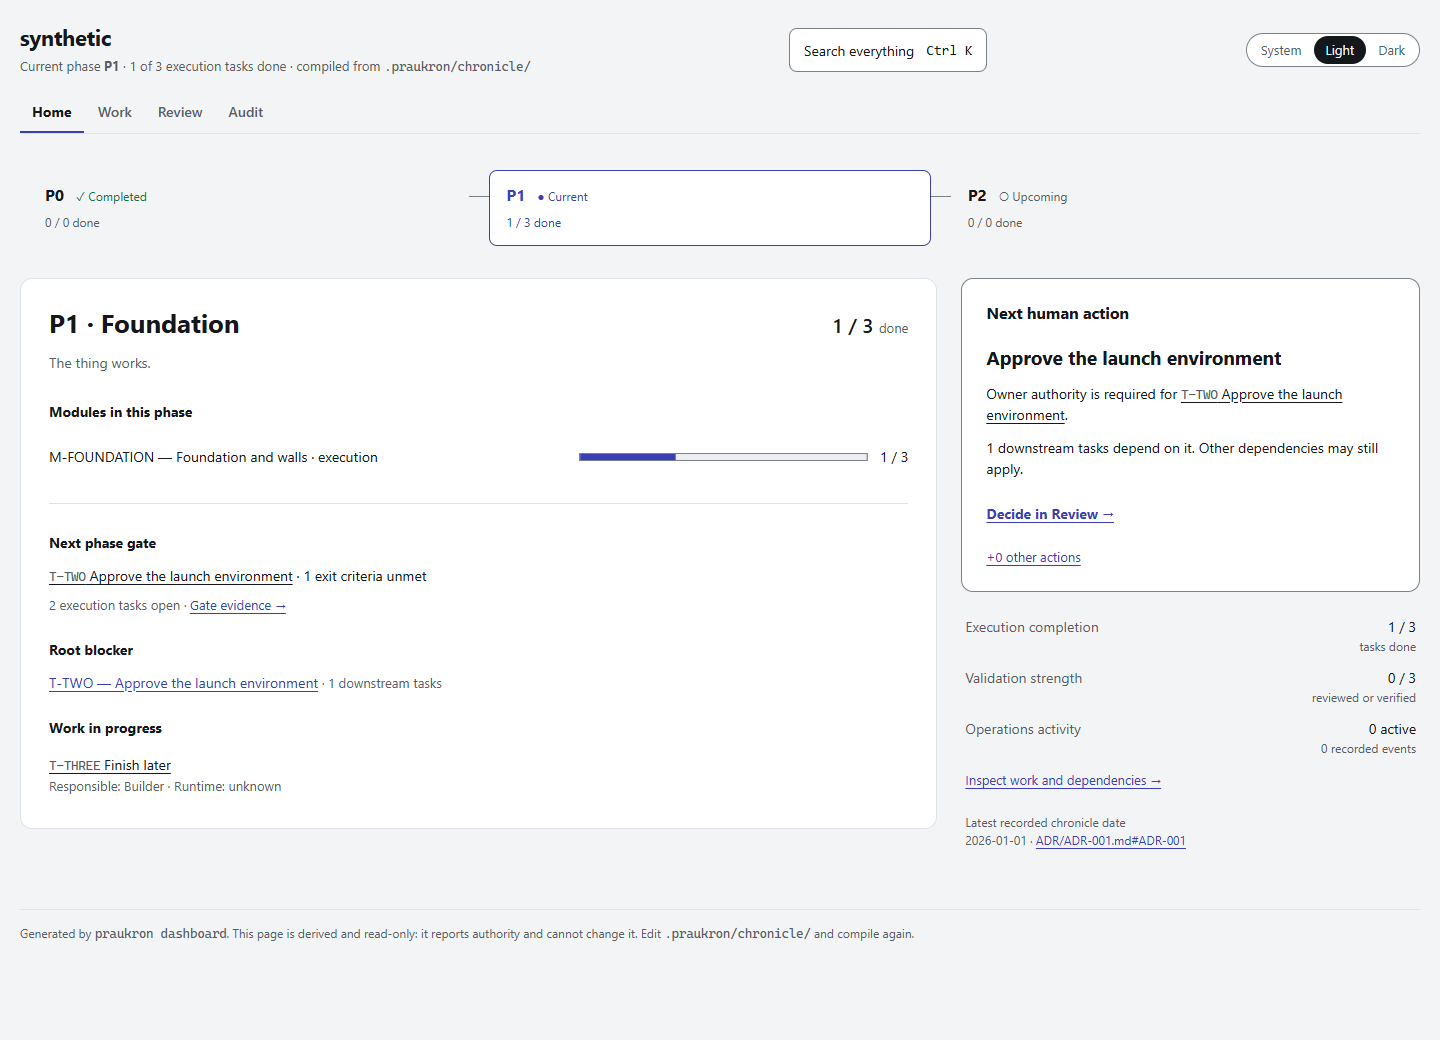
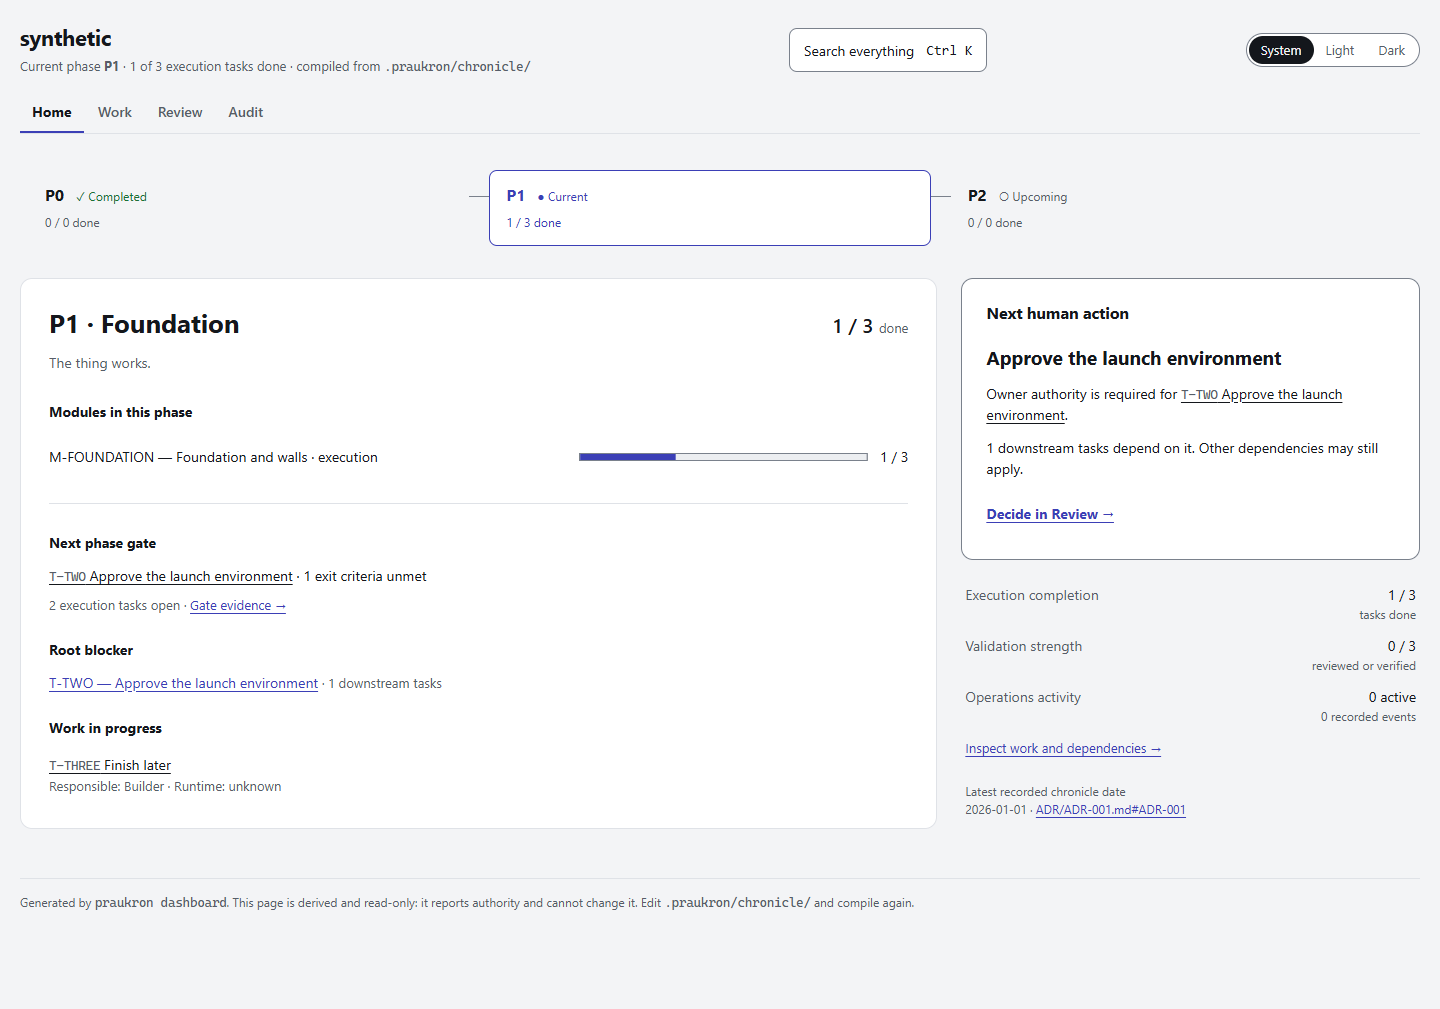
T-DASH-HOME-03 r1: retain blocker totals and fix phase navigation

diff --git a/tests/test_home_timeline.py b/tests/test_home_timeline.py
@@ -9,6 +9,8 @@ from pathlib import Path
 sys.path[:0] = [str(Path(__file__).resolve().parents[1] / 'src'), str(Path(__file__).resolve().parent)]
 from praukron import analytics, compile as compiler, dashboard
 from test_praukron import FixtureCase
+from test_dashboard_redesign import run_js
+from test_review import ReviewCase
 
 
 class TestHomeTimeline(FixtureCase):
@@ -22,6 +24,13 @@ class TestHomeTimeline(FixtureCase):
         phase = self.project.phases[0]
         self.project.phases.insert(0, replace(phase, id='P0', status='COMPLETE', exit_authority=None))
         self.project.phases.append(replace(phase, id='P2', status='PLANNED', exit_authority=None))
+        module = self.project.modules[0]
+        self.project.modules.extend([replace(module, id='M-PAST', phase='P0'),
+                                     replace(module, id='M-FUTURE', phase='P2')])
+        task = self.project.tasks[0]
+        self.project.tasks.extend([replace(task, id='T-PAST', module='M-PAST', phase='P0'),
+                                   replace(task, id='T-FUTURE', module='M-FUTURE', phase='P2', status='TODO'),
+                                   replace(task, id='T-FUTURE-2', module='M-FUTURE', phase='P2', status='TODO')])
         data, page, home = self.render()
         self.assertRegex(home, r'tabindex="0">\s*<nav class="phase-timeline"')
         timeline = home.split('</nav>', 1)[0]
@@ -31,8 +40,11 @@ class TestHomeTimeline(FixtureCase):
             self.assertIn(f'{symbol}</span> {state}', timeline)
         self.assertIn('href="#phase-P1" aria-current="step"', timeline)
         self.assertIn('id="phase-P1"', page)
-        for phase in data['phases']:
-            self.assertIn(f'{phase["progress"]["done"]} / {phase["progress"]["total"]} done', timeline)
+        pairs = re.findall(r'<li class="timeline-step [^"]+">.*?<strong>(.*?)</strong>.*?'
+                           r'<span class="timeline-count">(\d+) / (\d+) done</span>.*?</li>', timeline)
+        self.assertEqual([(pid, int(done), int(total)) for pid, done, total in pairs],
+                         [(p['id'], p['progress']['done'], p['progress']['total']) for p in data['phases']])
+        self.assertEqual([(done, total) for _, done, total in pairs], [('1', '1'), ('1', '3'), ('0', '2')])
 
     def test_02_phase_groups_outcome_counts_gate_blocker_and_wip(self):
         self.project.tasks[1].status = 'WIP'
@@ -61,11 +73,19 @@ class TestHomeTimeline(FixtureCase):
             self.assertIn(f'>{action["action"]} in Review', box)
             self.assertIn(f'href="#review-{action["id"]}"', box)
             self.assertIn(f'{len(action["affected"])} downstream tasks depend on it', box)
-            count = len(data['mission']['review']['now']) + len(data['mission']['review']['assumptions']) - 1
-            self.assertIn(f'+{count} other actions', box)
+            self.assertIn('+1 owner action</a>', box)
 
     def test_03_tables_removed_details_retained_and_all_home_links_resolve(self):
-        _, page, home = self.render()
+        # Independent roots share a downstream task: the summary must count the union.
+        self.project.tasks[0].status = 'TODO'
+        self.project.tasks[0].authority = 'owner'
+        self.project.tasks[1].authority = 'owner'
+        self.project.tasks[1].dependencies = []
+        self.project.tasks[2].dependencies = [self.project.tasks[0].id, self.project.tasks[1].id]
+        self.project.phases.append(replace(self.project.phases[0], id='P2', status='PLANNED', exit_authority=None))
+        self.project.modules.append(replace(self.project.modules[0], id='M-FUTURE', phase='P2'))
+        self.project.tasks.append(replace(self.project.tasks[1], id='T-FUTURE', module='M-FUTURE', phase='P2'))
+        data, page, home = self.render()
         self.assertNotIn('<table', home)
         self.assertNotIn('Most consequential blocker', home)
         self.assertNotIn('Execution completion by phase', home)
@@ -73,6 +93,14 @@ class TestHomeTimeline(FixtureCase):
         for title in ['Execution completion by phase', 'Execution status breakdown',
                       'Root blockers', 'Next milestones', 'Next phase gate', 'Full task registry']:
             self.assertIn(title, work)
+        mission = data['mission']
+        self.assertTrue(mission['affected'])
+        self.assertTrue(mission['future'])
+        self.assertGreater(sum(r['count'] for r in mission['roots']), len(mission['affected']))
+        summary = (f'{sum(r["current"] for r in mission["roots"])} active root blockers · '
+                   f'{len(mission["affected"])} distinct downstream tasks · '
+                   f'{len(mission["future"])} future owner obligations.')
+        self.assertIn('<h2>Root blockers</h2><p class="note">' + summary + '</p>', work)
         ids = {html.unescape(x) for x in re.findall(r'\bid="([^"]+)"', page)}
         for target in re.findall(r'href="#([^"]+)"', home):
             self.assertIn(html.unescape(target), ids)
@@ -96,7 +124,7 @@ class TestHomeTimeline(FixtureCase):
     def test_empty_completed_unphased_and_escaped_content(self):
         data, _, home = self.render()
         self.assertIn('None. No active agent sessions are recorded.', home)
-        self.assertIn('+0 other actions', home)
+        self.assertNotIn('class="other-actions"', home)
         data['project']['currentPhase'] = None
         self.assertIn('No current phase', dashboard._home_progress(data)[0])
         data['phases'][0]['status'] = 'COMPLETE'
@@ -110,6 +138,68 @@ class TestHomeTimeline(FixtureCase):
         self.assertIn('No tasks', row)
         self.assertIn('0 / 0', row)
         self.assertNotIn('nan', row.lower())
+
+    def test_phone_without_javascript_wraps_all_steps(self):
+        phone = dashboard._MISSION_STYLE.split('@media (max-width: 640px)', 1)[1]
+        self.assertRegex(phone, r'html:not\(\.js\) \.phase-timeline ol\s*\{[^}]*flex-wrap: wrap;[^}]*min-width: 0;')
+
+    def test_current_step_is_centred_using_only_internal_scroll(self):
+        positioning = dashboard._MISSION_SCRIPT.split('function reveal(target)', 1)[0]
+        self.assertIn('function positionHomeTimeline()', positioning)
+        self.assertIn("if (name === 'home') positionHomeTimeline();", dashboard._SCRIPT)
+        result = run_js('''
+const current = {getBoundingClientRect(){return {left:652,width:160};}};
+const strip = {scrollLeft:0,clientWidth:350,querySelector(){return current;},
+  getBoundingClientRect(){return {left:12};}};
+const document = {querySelector(){return strip;}};
+''' + positioning + '''
+positionHomeTimeline(); console.log(JSON.stringify(strip.scrollLeft));
+''')
+        self.assertEqual(result, 545)
+
+    def test_phase_reveal_leaves_room_for_measured_sticky_header(self):
+        reveal = dashboard._MISSION_SCRIPT.split('function reveal(target)', 1)[1].split('const globalSearch', 1)[0]
+        for header_height in (49, 112):
+            result = run_js('''
+const target = {hidden:true, style:{}, parentElement:null, tagName:'ARTICLE',
+  classList:{remove(){}, contains(){return false;}}, setAttribute(){},
+  focus(){}, scrollIntoView(){this.marginAtScroll = this.style.scrollMarginTop || '0px';}};
+function clearFilters() {}
+const document = {querySelector(){return {getBoundingClientRect(){return {height:HEIGHT};}};}};
+function reveal(target) BODY
+reveal(target); console.log(JSON.stringify(target.marginAtScroll));
+'''.replace('HEIGHT', str(header_height)).replace('BODY', reveal))
+            self.assertGreaterEqual(int(result.removesuffix('px')), header_height + 8)
+
+
+class TestHomeActionCounts(ReviewCase):
+    def test_owner_actions_and_assumptions_are_separate_and_pluralised(self):
+        # Use real owner and assumption records; vary only how many are actionable.
+        self.project.tasks[1].authority = 'owner'
+        self.project.tasks[2].authority = 'owner'
+        self.project.tasks[2].dependencies = []
+        self.project.tasks.append(replace(self.project.tasks[2], id='T-EXTRA'))
+        data = compiler.as_json(self.project)
+        owners = data['mission']['review']['now']
+        assumptions = data['mission']['review']['assumptions']
+        self.assertGreaterEqual(len(owners), 3)
+        self.assertGreaterEqual(len(assumptions), 2)
+        for owner_count, assumption_count, expected in [
+            (0, 0, ''), (1, 0, ''), (2, 0, '+1 owner action'),
+            (3, 0, '+2 owner actions'),
+            (1, 1, '1 assumption to validate'), (1, 2, '2 assumptions to validate'),
+            (2, 2, '+1 owner action · 2 assumptions to validate'),
+            (0, 1, '1 assumption to validate'),
+        ]:
+            with self.subTest(owners=owner_count, assumptions=assumption_count):
+                data['mission']['review']['now'] = owners[:owner_count]
+                data['mission']['review']['assumptions'] = assumptions[:assumption_count]
+                page = dashboard.render(self.project, analytics.report(self.project), data)
+                home = page.split('id="panel-home"', 1)[1].split('id="panel-work"', 1)[0]
+                if expected:
+                    self.assertIn(f'<p class="other-actions"><a href="#panel-review">{expected}</a></p>', home)
+                else:
+                    self.assertNotIn('class="other-actions"', home)
 
 
 if __name__ == '__main__':

diff --git a/src/praukron/dashboard.py b/src/praukron/dashboard.py
@@ -855,6 +855,7 @@ function selectTab(name, { focus = false, record = true } = {}) {
   if (record) window.scrollTo(0, 0);
   const legacy = document.getElementById('panel-' + old);
   if (legacy && legacy.tagName === 'DETAILS') legacy.open = true;
+  if (name === 'home') positionHomeTimeline();
 }
 
 topTabs.forEach(tab => tab.addEventListener('click', () => selectTab(tab.dataset.tab)));
@@ -1344,6 +1345,7 @@ _MISSION_STYLE = """
 .timeline-step.completed .timeline-state { color: var(--good); }
 .timeline-step.current a { border-color: var(--accent); background: var(--panel); color: var(--accent); }
 .timeline-step.current strong { color: var(--accent); }
+.phase { scroll-margin-top: 80px; }
 .home-layout { display: grid; grid-template-columns: minmax(0, 2fr) minmax(280px, 1fr); grid-template-areas: "phase action" "phase figures"; grid-template-rows: auto 1fr; gap: 20px 24px; align-items: start; }
 .home-layout > * { min-width: 0; overflow-wrap: anywhere; }
 .phase-overview { grid-area: phase; padding: 28px; border: 1px solid var(--line); border-radius: 12px; background: var(--panel); }
@@ -1485,6 +1487,9 @@ input, textarea { caret-color: var(--accent); }
   .home-layout { grid-template-columns: minmax(0, 1fr); grid-template-areas: "action" "phase" "figures"; gap: 16px; }
   .phase-timeline { margin: 16px 0; }
   .timeline-step { flex-basis: 160px; }
+  html:not(.js) .phase-timeline ol { flex-wrap: wrap; min-width: 0; gap: 8px; }
+  html:not(.js) .timeline-step { flex: 1 1 160px; padding-right: 0; }
+  html:not(.js) .timeline-step::after { display: none; }
   .phase-overview, .next-action { padding: 20px; }
   .phase-heading { flex-wrap: wrap; gap: 8px; }
   .module-progress-list li { grid-template-columns: minmax(0, 1fr); gap: 8px; }
@@ -1529,6 +1534,14 @@ function searchRecords(index, query) {
 """
 
 _MISSION_SCRIPT = """
+function positionHomeTimeline() {
+  const strip = document.querySelector('.phase-timeline');
+  const current = strip && strip.querySelector('[aria-current="step"]');
+  if (!current) return;
+  const bounds = strip.getBoundingClientRect();
+  const step = current.getBoundingClientRect();
+  strip.scrollLeft += step.left - bounds.left - (strip.clientWidth - step.width) / 2;
+}
 function reveal(target) {
   clearFilters();
   target.hidden = false;
@@ -1538,6 +1551,8 @@ function reveal(target) {
     if (node.classList.contains('panel')) selectTab(node.id.replace('panel-', ''), {record: false});
   }
   target.setAttribute('tabindex', '-1');
+  const sticky = document.querySelector('.stickyhead');
+  target.style.scrollMarginTop = ((sticky ? sticky.getBoundingClientRect().height : 0) + 16) + 'px';
   target.focus();
   target.scrollIntoView({block: 'start'});
 }
@@ -2349,13 +2364,20 @@ def render(project: Project, report: Report, compiled: dict, interactive: bool =
                      + (f'<ul class="work-list">{wip_list}</ul>' if wip_list else '<p class="note">None. No active agent sessions are recorded.</p>')
                      + '</div>')
     phase_overview, progress_charts = _home_progress(compiled, phase_details)
-    action_count = len(mission["review"]["now"]) + len(mission["review"]["assumptions"])
-    other_actions = max(0, action_count - 1)
+    other_owners = max(0, len(mission["review"]["now"]) - 1)
+    assumption_count = len(mission["review"]["assumptions"])
+    action_counts = []
+    if other_owners:
+        action_counts.append(f'+{other_owners} owner action' + ('s' if other_owners != 1 else ''))
+    if assumption_count:
+        action_counts.append(f'{assumption_count} assumption' + ('s' if assumption_count != 1 else '') + ' to validate')
+    other_actions = ('<p class="other-actions"><a href="#panel-review">'
+                     + ' · '.join(action_counts) + '</a></p>') if action_counts else ''
     home = panel("home", f'''
       {_phase_timeline(compiled)}
       <div class="home-layout">
       <section class="next-action" aria-labelledby="next-action-title"><h2 id="next-action-title">Next human action</h2>
-      {next_action}<p class="other-actions"><a href="#panel-review">+{other_actions} other actions</a></p></section>
+      {next_action}{other_actions}</section>
       {phase_overview}
       <section class="home-figures" aria-label="Project figures"><dl>
       <dt>Execution completion</dt><dd>{metrics["taskCompletion"]["done"]} / {metrics["taskCompletion"]["total"]}<span>tasks done</span></dd>
@@ -2396,7 +2418,10 @@ def render(project: Project, report: Report, compiled: dict, interactive: bool =
                  '<div class="work-scope"><button data-work-scope="current" aria-pressed="true">Current work</button>'
                  '<button data-work-scope="all" aria-pressed="false">All work</button></div>'
                  + ('<p class="note">Nothing ready. Inspect dependency waits and upcoming decisions; this does not mean everything failed.</p>' if not mission["states"]["Ready"] else '')
-                 + work_states + '<h2>Root blockers</h2>' + roots_body
+                 + work_states + '<h2>Root blockers</h2>'
+                 + f'<p class="note">{len(active_roots)} active root blockers · '
+                 f'{len(mission["affected"])} distinct downstream tasks · '
+                 f'{len(mission["future"])} future owner obligations.</p>' + roots_body
                  + '<details class="group"><summary>Critical path</summary>' + critical + '</details>'
                  + '<details class="group"><summary>Phases and product hierarchy</summary><h2>Phases</h2><div class="phases">'
                  + phase_cards + '</div><h2>Product hierarchy</h2>' + hierarchy + '</details>'

diff --git a/tests/test_home_progress.py b/tests/test_home_progress.py
@@ -246,8 +246,8 @@ class TestOwnerReviewActions(OwnerCase):
         self.assertIn('<h2>Actionable now <span class="count">1</span>', review)
         self.assertEqual(Disclosures(review).maximum, 1)
         home = page.split('id="panel-home"', 1)[1].split('id="panel-work"', 1)[0]
-        others = len(data['mission']['review']['now']) + len(data['mission']['review']['assumptions']) - 1
-        self.assertIn(f'+{others} other actions', home)
+        self.assertNotIn('+0 owner actions', home)
+        self.assertIn('1 assumption to validate', home)
         self.assertIn('href="#review-' + actions[0]['id'] + '"', home)
         self.assertEqual(page, self.render(compiler.as_json(self.project)))
         # Recorded status and progress stay unchanged; Review exposes the error.

diff --git a/docs/dashboard-ux.md b/docs/dashboard-ux.md
@@ -21,7 +21,9 @@ health score, ETA, schedule or event is invented.
 Home starts with a horizontal timeline in recorded phase order. Each step names
 its state (Completed, Current or Upcoming) with text and a symbol, and shows exact
 execution completion counts. The current phase is distinct and links to its
-full record in Work. The timeline scrolls inside its own strip on phones.
+full record in Work. On phones the timeline scrolls inside its own strip and
+opens with the current step visible. Without JavaScript, steps wrap instead.
+Following a phase link leaves its heading below the sticky navigation.
 
 Below it, the main card groups the current phase's ID, name, outcome, completion,
 modules, next gate and unmet criteria count, root blocker and work in progress.
@@ -30,12 +32,15 @@ counts on the same line and name their values for assistive technology. Zero-tas
 modules say "No tasks"; operations get a separate labelled row and never enter
 execution totals. The side column presents the next human action, its Decide or
 Verify link into Review (Resolve for recorded validation errors), downstream
-impact and count of other current actions, followed by compact project figures.
+impact and count of other owner actions, separately from assumptions to validate,
+followed by compact project figures. Zero counts are omitted and labels pluralise.
 At phone width, the action follows the timeline, then the phase card and figures.
 
 Home contains no tables. Work retains execution completion by phase, unphased
 execution, the patterned status chart and its complete accessible table, along
-with milestones, full gate detail and root causes. Completion counts DONE tasks;
+with milestones, full gate detail and root causes. Its root summary preserves
+active roots, distinct downstream tasks (the union, not the sum of each root's
+impact), and future owner obligations. Completion counts DONE tasks;
 status uses the existing mission states. Validation remains its own measure.
 Existing light/dark tokens and focus states apply throughout. No charting library,
 external asset or JavaScript is required to read the content.

diff --git a/changelog.d/T-DASH-HOME-03.md b/changelog.d/T-DASH-HOME-03.md
@@ -1,1 +1,2 @@
 - Redesign dashboard Home around a phase timeline, a current-phase card with inline module progress, gate and active work, and a next-action column with compact execution, validation and operations figures. On phones the action follows the scrolling timeline. Detailed completion/status tables and milestones remain available in Work; both themes and no-JavaScript reading are preserved.
+- Keep the current step visible on phones (wrap without JavaScript), clear the sticky navigation when opening a phase, distinguish other owner actions from assumptions, and retain deduplicated downstream totals in Work.
